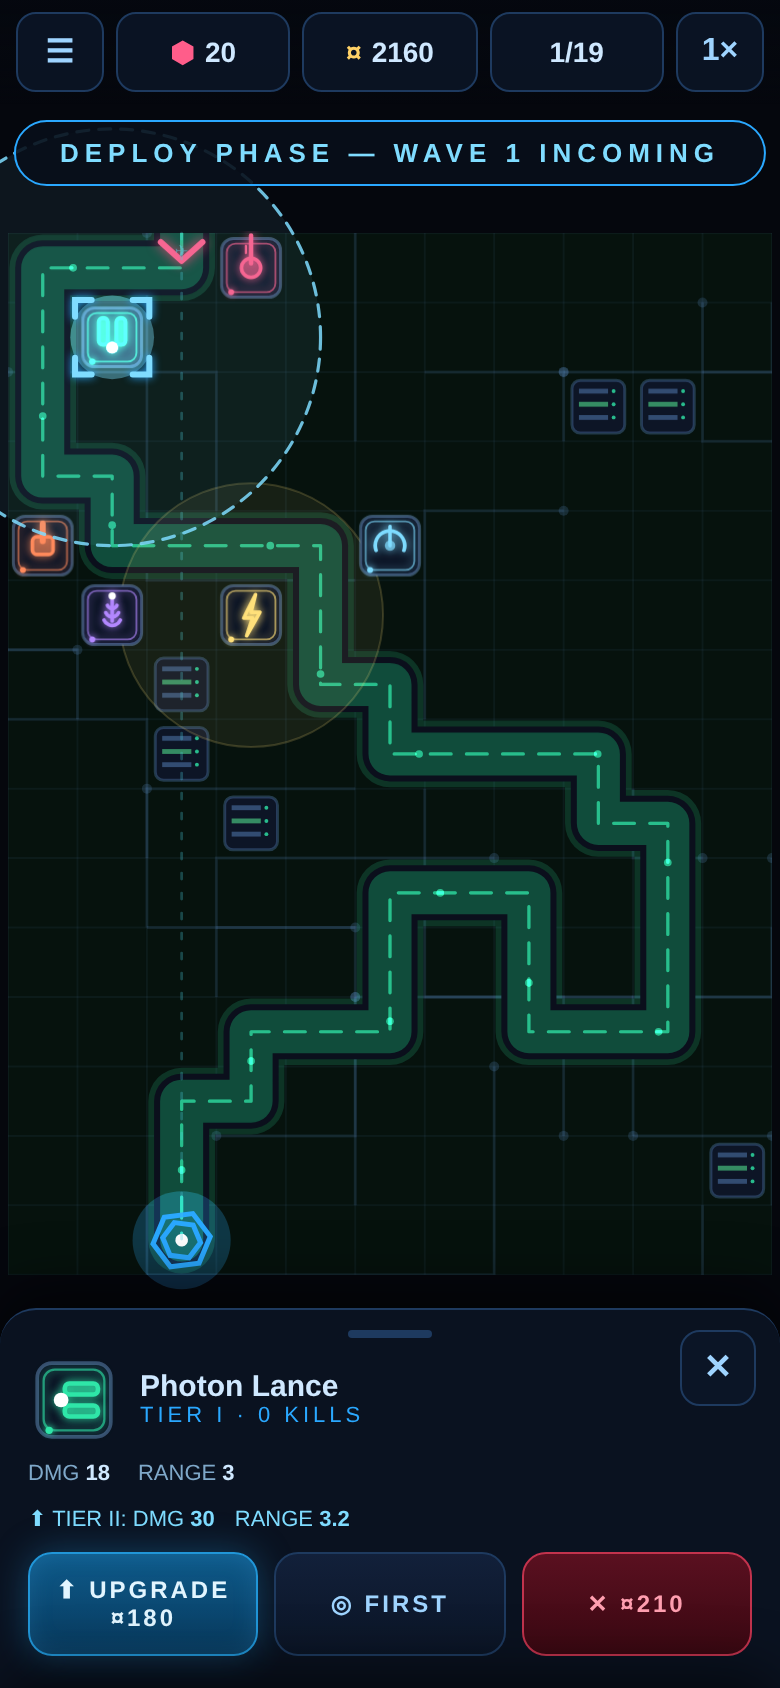
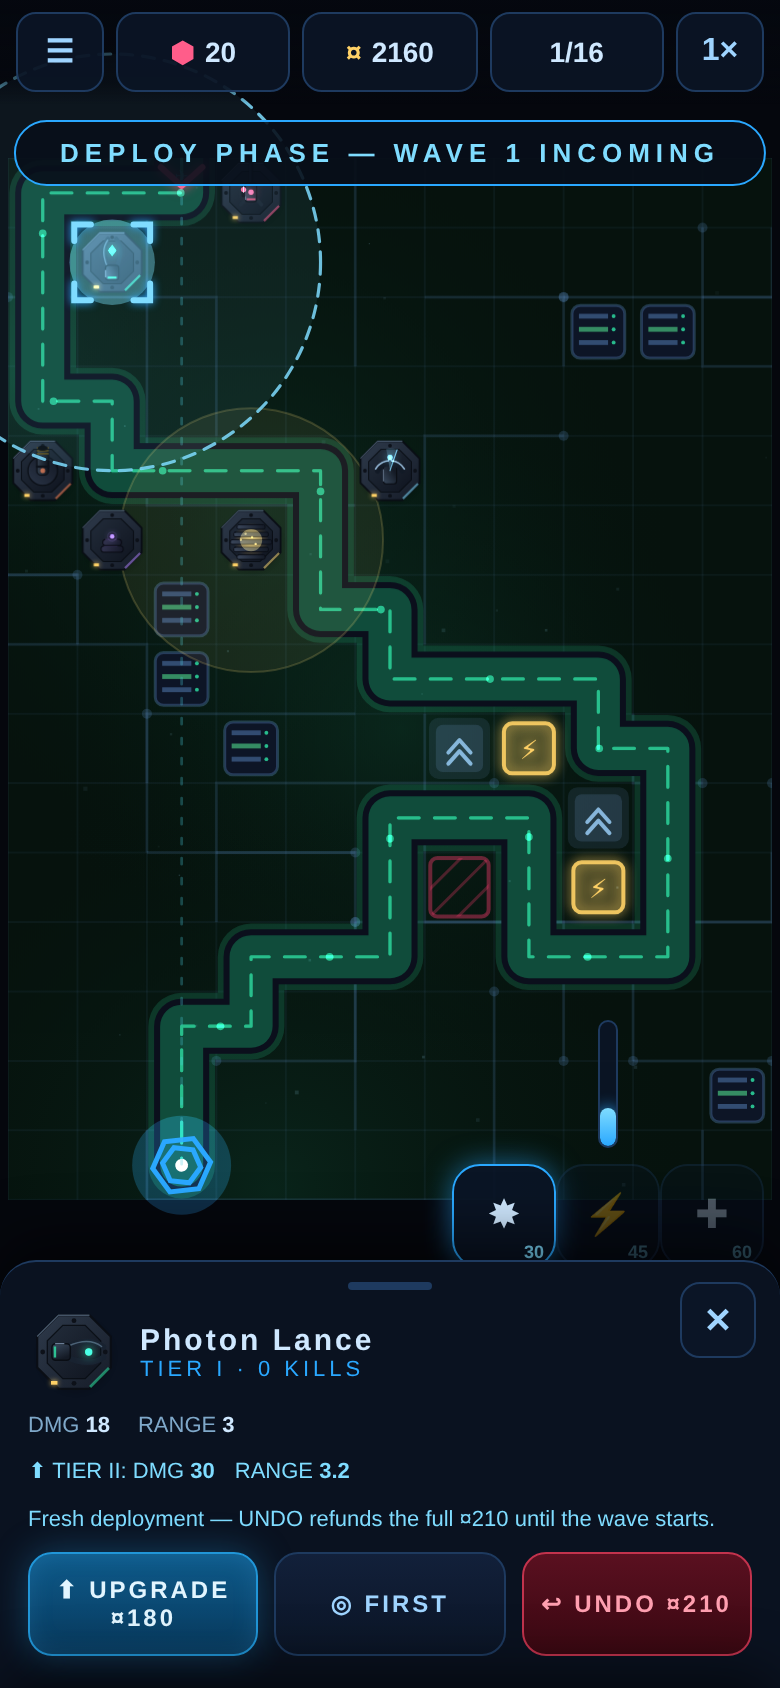
Refresh README screenshots with v1.8 art and update feature blurb
Claude-Session: https://claude.ai/code/session_01KjuckVmo1Lfq8ecCLGimqW

diff --git a/README.md b/README.md
@@ -2,9 +2,11 @@
 
 **▶ Play: https://shaumik.github.io/ai-tower/**
 
-AI-themed tower defense. 50 levels, 26 enemy types, 5 bosses, 12 towers — build
-between waves, then watch your defense hold. Works offline; add to home screen
-on mobile to install it as an app.
+AI-themed tower defense. 50 levels, 27 enemy types, 5 sector bosses, 12 tower
+families with tier-3 branch specializations — build between waves, then watch
+your defense hold. Damage types with weaknesses and resistances, terrain tiles,
+pre-wave deals, spreading corruption, and status combos keep every node fresh.
+Works offline; add to home screen on mobile to install it as an app.
 
 | | | |
 |---|---|---|